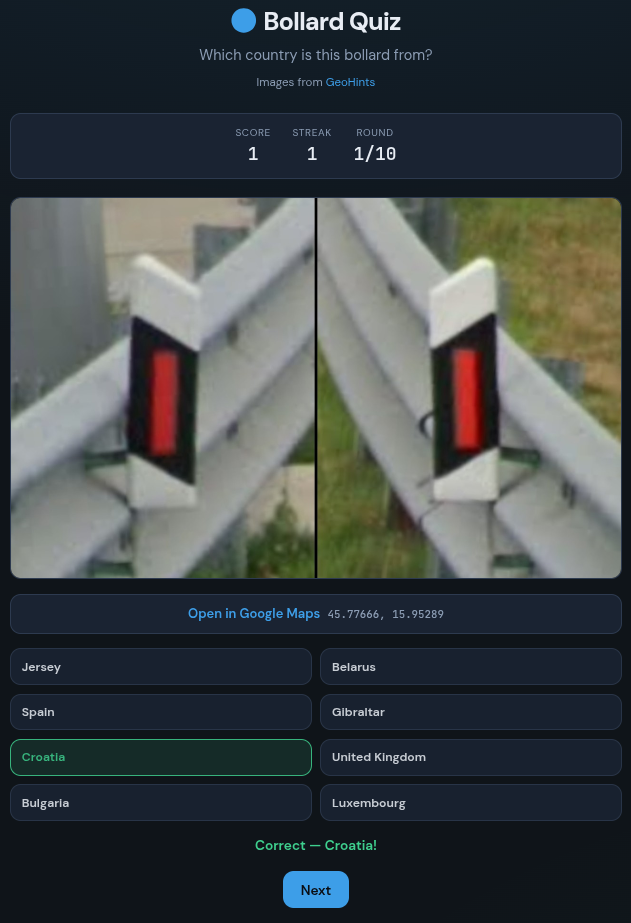
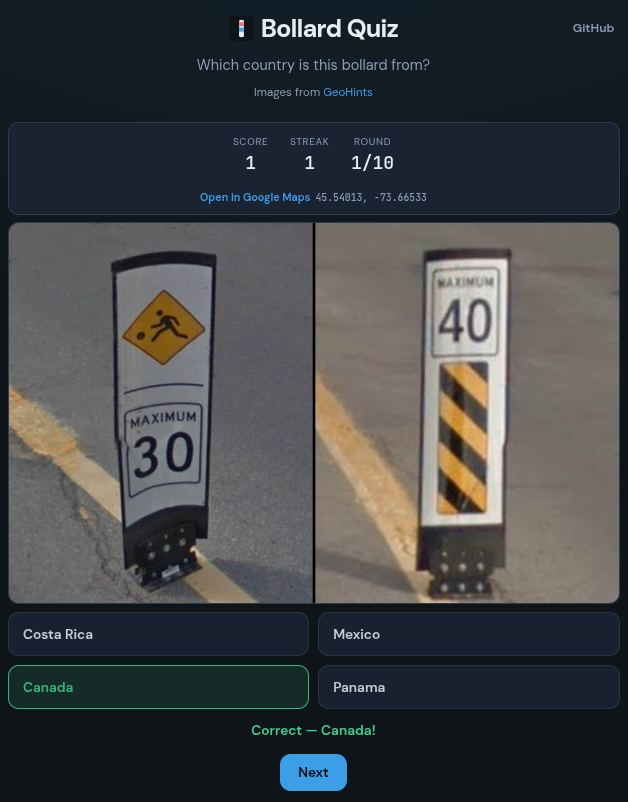
docs: updated screenshot

diff --git a/README.md b/README.md
@@ -29,7 +29,7 @@ Each round:
 
 ## Screenshot
 
-![Bollard Quiz gameplay — correct answer with eight country choices](docs/screenshot.png)
+![Bollard Quiz gameplay — correct answer with Google Maps link and country choices](docs/screenshot.png)
 
 ## Run locally
 